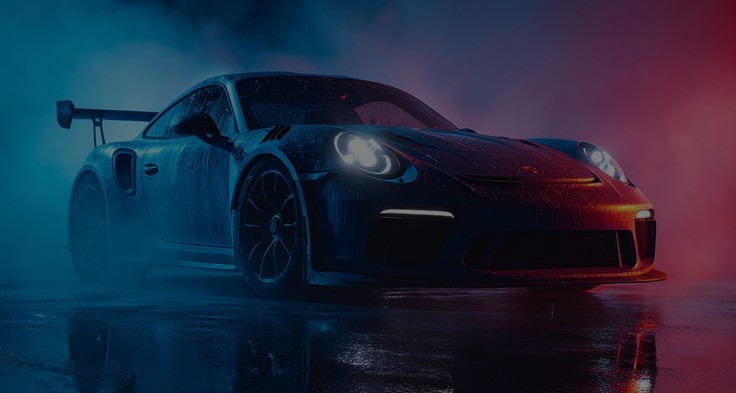
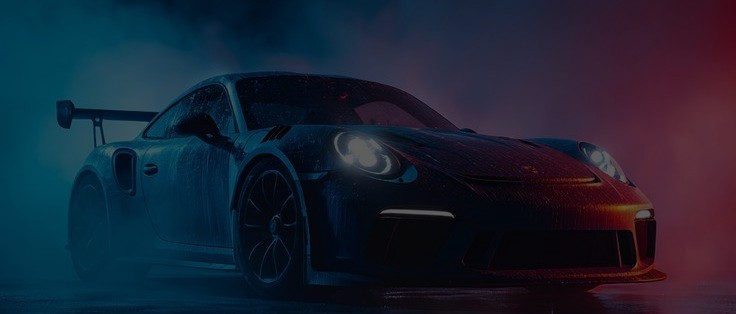
hero_sec + features

diff --git a/index.html b/index.html
@@ -5,6 +5,7 @@
         <meta name="viewport" content="width=device-width, initial-scale=1.0" />
         <title>MotorShow</title>
         <link rel="stylesheet" href="styles/global.css" />
+        <link rel="stylesheet" href="styles/home.css">
         <link rel="stylesheet" href="https://cdnjs.cloudflare.com/ajax/libs/font-awesome/6.5.1/css/all.min.css" />
     </head>
     <body>
@@ -28,7 +29,34 @@
                     <button class="login button primary">Login</button>
                 </div>
             </nav>
+
+
+            <section class="hero_sec">
+                <div class="hero_sec_content">
+                    <h1>MOTORSHOW</h1>
+                    <p>Drive your dreams forward — where every journey begins with power, style, and passion.</p>
+                    <a href="#">DISCOVER</a>
+                </div>
+            </section>
         </header>
+
+
+
+
+
+
+
+
+
+
+
+
+
+
+
+
+
+
 
         <footer class="footer">
             <div class="container">

diff --git a/styles/home.css b/styles/home.css
@@ -1,0 +1,40 @@
+.hero_sec{
+    background-image: url("/assets/header-background.jpg");
+    background-position: center;
+    background-size: cover;
+    background-repeat: no-repeat;
+    width: 100%;
+    height: 600px;
+    display: flex;
+    align-items: center;
+    justify-content: center;
+}
+.hero_sec_content{
+    padding: 100px;
+    background-color: #00000069;
+}
+.hero_sec_content h1{
+    font-size: 40px;
+    font-weight: bold;
+    color: #2f48c2;
+}
+
+.hero_sec_content p {
+    font-size: 16px;
+    margin-bottom: 25px;
+    color: #ddd;
+}
+
+.hero_sec_content a {
+    border: 1px solid #2f48c2;
+    border-radius: 20px;
+    text-decoration: none;
+    padding:10px;
+    color: #2f48c2;
+    background-color: #ffffff20;
+    cursor: pointer;
+    transition: 0.3s;
+}
+.hero_sec_content a:hover{
+    background-color: #3b3b3b52;
+}
